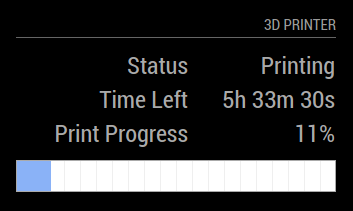
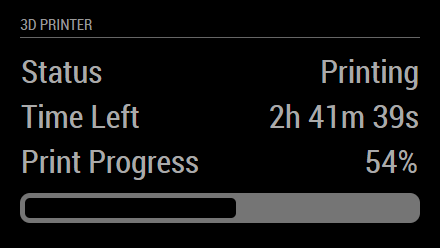
added custom.css

diff --git a/MMM-RepRapFirmware.js b/MMM-RepRapFirmware.js
@@ -13,8 +13,6 @@ Module.register("MMM-RepRapFirmware",{
 
         if (result != ""){
             var tableElement = document.createElement("table");
-            tableElement.style.fontSize = "x-large";
-            tableElement.style.lineHeight = "normal";
 
             var parameters = this.config.parameters;
             for (i = 0; i < parameters.length; i++){
@@ -37,13 +35,13 @@ Module.register("MMM-RepRapFirmware",{
 
                 newRow = document.createElement("tr");
 
-                newCell = newRow.insertCell();
-                newText = document.createTextNode(name);
-                newCell.appendChild(newText);
+                cell1 = newRow.insertCell();
+                cell1.innerHTML = name;
+                cell1.className = "col1";
                 
-                newCell = newRow.insertCell();
-                newText = document.createTextNode(val);
-                newCell.appendChild(newText);
+                cell2 = newRow.insertCell();
+                cell2.innerHTML = val;
+                cell2.className = "col2";
 
                 tableElement.appendChild(newRow);
             }
@@ -174,4 +172,10 @@ Module.register("MMM-RepRapFirmware",{
         var percent = (100 * printDuration) / (timeLeft + printDuration);
         return Math.round(percent);
     },
+
+    getStyles: function() {
+        return [
+            this.file('custom.css'), // this file will be loaded straight from the module folder.
+        ]
+    }
 });

diff --git a/custom.css b/custom.css
@@ -1,0 +1,35 @@
+progress {
+	width: 400px;
+	height: 30px;
+	margin-top: 10px;
+	display: block;
+	/* Important Thing */
+	-webkit-appearance: none;
+
+}
+
+/* All good till now. Now we'll style the background */
+progress::-webkit-progress-bar {
+	background: #757575;
+	border-radius: 10px;
+	padding: 5px;
+}
+
+/* Now the value part */
+progress::-webkit-progress-value {
+	border-radius: 5px;
+	background-color: #000000
+}
+
+table {
+	font-size: "x-large";
+	line-height: normal;
+}
+
+.col1 {
+	text-align: left;
+}
+
+.col2 {
+	text-align: right;
+}
